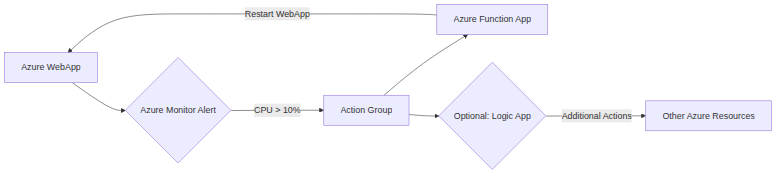
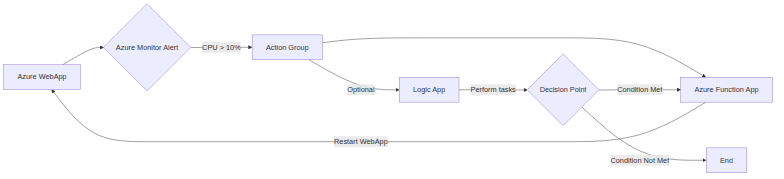
Auto-generated runbook with diagram image

diff --git a/README.md b/README.md
@@ -1,233 +1,205 @@
 ```markdown
-# Azure WebApp High CPU Alert Runbook
+# Azure Web App High CPU Alert Runbook
 
-**Document Version:** 1.0
-**Last Updated:** 2023-10-27
-**Author:** AI Generated (Edited for Quality)
+This runbook outlines the steps to diagnose and remediate a high CPU usage alert for an Azure Web App. This alert triggers when the CPU usage exceeds 10% for a sustained period. This runbook incorporates an automated remediation step using an Azure Function that restarts the Web App to quickly restore service.
 
-**Purpose:** This runbook outlines the steps for responding to and resolving an Azure WebApp high CPU usage alert.  It details the symptoms, potential causes, troubleshooting steps, automated remediation (via an Azure Function), and how to review logs.
+**Alert Name:** WebAppCPUHigh
 
-**Alert Name:** WebApp CPU Usage High
-
-**Alert Description:** CPU usage for the Azure WebApp has exceeded 10% of its maximum allowed value.
+**Trigger Condition:** CPU Percentage > 10% (Sustained)
 
 **Severity:** Medium
 
-**Escalation Point:**  On-call DevOps Engineer (pager: [PagerDuty integration here])
+**Owner:** Infrastructure/Development Team
 
 ## 1. Symptoms
 
-*   **High CPU Usage:**  Azure Monitor shows CPU Percentage exceeding 10% for the WebApp.
-*   **Slow Response Times:** Users may experience slow page load times, API request timeouts, or application unresponsiveness.
-*   **Error Logs:**  Application logs might contain error messages related to resource exhaustion, slow queries, or increased processing times.
-*   **Performance Degradation:**  Overall application performance is noticeably degraded.
-*   **Increased Queue Length:** Messages may be accumulating in associated queues (e.g., Azure Service Bus, Storage Queues) if the WebApp processes messages.
+Users may experience the following symptoms:
 
-## 2. Potential Causes
+*   Slow page load times or general application slowness.
+*   Application unresponsive or timing out.
+*   Increased latency for API calls.
+*   Error messages related to resource exhaustion (e.g., 503 Service Unavailable errors).
+*   Possible application crashes or restarts (if CPU usage gets extremely high).
+
+## 2. Troubleshooting
+
+**2.1 Initial Investigation**
+
+*   **Confirm the Alert:** Verify the alert in Azure Monitor, checking the actual CPU percentage and the duration it has been exceeding the threshold.  Check for the exact timestamp of the alert trigger and duration.
+*   **Azure Portal Overview:** Navigate to the affected Web App in the Azure Portal.
+    *   **Overview Blade:** Review the **CPU Percentage**, **Memory Percentage**, and **Requests** charts on the Overview blade.  Look for any spikes or anomalies around the time the alert triggered.
+    *   **Diagnose and Solve Problems Blade:** Use the "Diagnose and Solve Problems" tool. This can automatically detect common issues related to high CPU and suggest solutions. Check sections like "Availability and Performance".
+    *   **Metrics Blade:**
+        *   Add metrics for **CPU Percentage**, **Memory Percentage**, **Requests**, **HTTP Server Errors**, **Data Out**, and **Average Response Time**.
+        *   Increase the time range to at least 1 hour before and after the alert trigger time. This provides context for the CPU spike.
+        *   **Correlation:** Look for correlations between CPU spikes and other metrics like increased requests, memory pressure, or errors.
+*   **Application Insights (If configured):**
+    *   Review the **Performance** section for slow requests, slow dependencies, and any exceptions being thrown.
+    *   Check the **Live Metrics Stream** to get real-time CPU usage, request rates, and other telemetry.
+    *   Use **Profiler** to collect detailed traces of the CPU-intensive code paths. (Ensure profiler is enabled and configured.)
+
+**2.2 Detailed Investigation**
+
+*   **Kudu (SCM) Site:** Access the Kudu (SCM) site for the Web App using `https://<your-webapp-name>.scm.azurewebsites.net`.
+    *   **Process Explorer:** Check the Process Explorer to identify which processes are consuming the most CPU.  Look for w3wp.exe (the worker process for IIS), dotnet.exe (if it's a .NET app), node.exe (if it's a Node.js app), or any other unexpected processes. Note the process ID (PID) of the high CPU-consuming process.
+    *   **CMD/PowerShell:** Use the command line interface to investigate further.
+        *   `top`:  Use this command (available in the console) to display a real-time list of processes and their CPU usage.
+        *   `ps -aux`: (for Linux based apps) Similar to `top`, provides detailed process information.
+
+*   **Web App Diagnostics Logs:**
+    *   Enable **Application Logging (Filesystem or Blob Storage)**, **Web Server Logging (Storage)**, and **Detailed Error Messages (Filesystem or Blob Storage)** in the Web App's Diagnostic Logs section.
+    *   Review these logs for errors, exceptions, or warnings that may be contributing to the high CPU usage. Pay special attention to the timestamps around the alert trigger.
+    *   Look for patterns in the logs that correlate with the CPU spikes.
+
+**2.3 Potential Causes**
 
 *   **Code Issues:**
-    *   **Inefficient Code:**  Poorly optimized code, infinite loops, or inefficient algorithms.
-    *   **Memory Leaks:**  Gradual accumulation of memory that is not being released, leading to increased CPU usage due to garbage collection.
-    *   **Deadlocks:**  Threads or processes waiting for resources held by other threads or processes, leading to CPU spinning while waiting.
-*   **High Traffic:**  Sudden surge in user traffic exceeding the WebApp's capacity.
-*   **Database Issues:**
-    *   **Slow Queries:**  Database queries that take a long time to execute, consuming CPU resources.
-    *   **Database Connection Issues:**  Frequent connection errors or timeouts impacting application performance and CPU.
+    *   **Inefficient Algorithms:**  Code using inefficient algorithms or performing complex calculations.
+    *   **Memory Leaks:**  Code that leaks memory can lead to increased CPU usage as the garbage collector works harder.
+    *   **Deadlocks or Threading Issues:**  Concurrency problems can cause CPU spikes.
+    *   **Long-Running Synchronous Operations:**  Blocking I/O operations can tie up threads and increase CPU usage.
 *   **External Dependencies:**
-    *   **Slow Downstream Services:**  Dependence on slow or unresponsive external services (e.g., APIs, databases).
-    *   **Network Issues:** Network latency or connectivity problems affecting communication with external resources.
-*   **Background Tasks:**
-    *   **Scheduled Jobs:**  CPU-intensive scheduled tasks running on the WebApp.
-    *   **WebJobs:** Continuously running or triggered WebJobs consuming CPU.
-*   **Security Issues:**
-    *   **Malicious Attacks:**  DoS or DDoS attacks overwhelming the WebApp's resources.
-    *   **Compromised Code:**  Malicious code injected into the application.
-*   **Resource Constraints:**
-    *   **Insufficient App Service Plan:**  WebApp is operating in an App Service Plan with insufficient CPU resources.
-    *   **Scaling Issues:** Autoscaling is not configured correctly or is failing to scale effectively.
+    *   **Slow Database Queries:**  Slow database queries can put a strain on the application and increase CPU usage.
+    *   **Network Latency:**  High network latency to external services can cause delays and increase CPU usage.
+    *   **API Throttling:**  Being throttled by external APIs can lead to retries and increased CPU load.
+*   **Traffic Spikes:**  A sudden increase in traffic can overwhelm the application and cause CPU spikes.
+*   **Denial of Service (DoS) Attacks:**  A DoS attack can flood the application with requests, leading to high CPU usage.
+*   **Configuration Issues:**
+    *   **Incorrect Connection String:**  An invalid connection string can cause the application to repeatedly try to connect to the database, increasing CPU usage.
+    *   **Excessive Logging:**  Overly verbose logging can consume significant CPU resources.
+*   **Platform Issues:**
+    *   **Outdated SDKs/Frameworks:**  Using outdated SDKs or frameworks can expose the application to performance issues.
+    *   **Under-Provisioned App Service Plan:** The chosen service plan does not provide enough resources for the application's workload.
 
-## 3. Troubleshooting Steps
+## 3. Auto-Remediation
 
-**A. Initial Investigation (5-10 minutes):**
+The following auto-remediation action will be triggered by the alert:
 
-1.  **Verify the Alert:** Confirm the alert is active in Azure Monitor and review the alert details, including the specific metric (CPU Percentage) and the time the alert was triggered.
-2.  **Check Azure Status:**  Visit [https://status.azure.com/](https://status.azure.com/) to check for any known Azure outages or incidents that might be affecting the WebApp's region.
-3.  **Review Azure Monitor Metrics:**
-    *   **CPU Percentage:** Analyze the CPU Percentage graph in Azure Monitor for the WebApp to confirm the sustained high CPU usage.
-    *   **Memory Percentage:** Check memory usage to identify potential memory leaks or excessive memory consumption.
-    *   **Requests:** Analyze the number of requests per second to see if there is a sudden spike in traffic.
-    *   **HTTP Queue Length:** Observe the HTTP Queue Length to determine if requests are being queued up due to high CPU.
-    *   **Data In/Out:** High network data in or out may also point to network issues or unexpected traffic volumes.
-4.  **Check Application Logs:**  Examine the WebApp's application logs in Azure App Service Logs (Application Insights if configured, or standard App Service logs) for any error messages, exceptions, or warnings that coincide with the high CPU usage. Look for clues about slow queries, timeouts, or resource exhaustion.
+*   **Action:** Restart the Web App.
+*   **Mechanism:** Azure Function triggered by the Azure Monitor Alert.
+*   **Azure Function Details:**
 
-**B. Detailed Analysis (15-30 minutes):**
+    *   **Function App Name:** `[YourFunctionAppName]`
+    *   **Function Name:** `RestartWebApp`
+    *   **Trigger:** HTTP Trigger (WebHook from Azure Monitor Alert)
+    *   **Required Permissions:** The Function App's Managed Identity (System Assigned) or a Service Principal needs the `Microsoft.Web/sites/restart/action` permission on the targeted Web App.
 
-1.  **Investigate Slow Requests (Application Insights):** If Application Insights is configured:
-    *   Navigate to the "Performance" section of your Application Insights resource associated with the WebApp.
-    *   Identify the slowest requests based on response time.
-    *   Drill down into individual request traces to analyze the call stack and identify the specific code sections or database queries that are consuming the most time.
-2.  **Azure App Service Diagnostics:**
-    *   Navigate to your WebApp in the Azure portal.
-    *   In the left-hand menu, click on "Diagnose and solve problems."
-    *   Use the built-in diagnostics tools (e.g., "Performance Issues," "Availability and Performance") to identify potential problems, such as slow requests, high CPU, or memory leaks.
-    *   The "Diagnostic Tools" section allows for deeper analysis, including:
-        *   **Process Explorer:** View running processes on the WebApp instance and their CPU and memory consumption.  Identify which processes are contributing the most to the high CPU usage.
-        *   **Memory Dump Analysis:** Capture a memory dump of the WebApp process and analyze it to identify memory leaks or excessive memory consumption. (Requires deeper technical expertise)
-        *   **Proactive CPU Monitoring:** Configure Proactive CPU Monitoring to automatically collect data when CPU spikes occur, providing valuable insights for root cause analysis.
-3.  **Database Monitoring (If Applicable):**
-    *   Check the performance metrics of the associated database (e.g., Azure SQL Database, Cosmos DB) for slow queries, high CPU utilization, or other performance bottlenecks.
-    *   Use database monitoring tools to identify long-running queries and optimize them.
-4.  **Check WebJobs:**  If using WebJobs, review their logs and resource consumption to ensure they are not contributing to the high CPU usage.
-5.  **Check Scaling Settings:** Review the App Service Plan scaling rules and ensure that autoscale is enabled and configured correctly to handle traffic spikes. Are the scale-out triggers appropriate (e.g., CPU Threshold)? Are the scale-out limits sufficient?
+    **Example Azure Function (C# - .NET 6):**
 
-## 4. Auto-Remediation (Azure Function Restart)
+    ```csharp
+    using System;
+    using System.IO;
+    using System.Threading.Tasks;
+    using Microsoft.AspNetCore.Mvc;
+    using Microsoft.Azure.WebJobs;
+    using Microsoft.Azure.WebJobs.Extensions.Http;
+    using Microsoft.AspNetCore.Http;
+    using Microsoft.Extensions.Logging;
+    using Newtonsoft.Json;
+    using Azure.Identity;
+    using Azure.ResourceManager;
+    using Azure.ResourceManager.AppService;
+    using Azure.ResourceManager.AppService.Models;
 
-**A. Azure Function Details:**
+    public static class RestartWebApp
+    {
+        [FunctionName("RestartWebApp")]
+        public static async Task<IActionResult> Run(
+            [HttpTrigger(AuthorizationLevel.Function, "post", Route = null)] HttpRequest req,
+            ILogger log)
+        {
+            log.LogInformation("RestartWebApp function triggered.");
 
-*   **Function Name:**  `WebAppRestartFunction` (example)
-*   **Resource Group:**  `rg-monitoring` (example)
-*   **App Service Plan (for the Function):** `ASP-Monitoring` (example - ideally on a separate App Service Plan)
-*   **Trigger:** HTTP Trigger (or Queue Trigger triggered by the Azure Monitor Alert Action Group)
-*   **Authentication:**  Managed Identity (System-assigned or User-assigned) with `Web App Contributor` role assigned to the WebApp.
-*   **Code Example (PowerShell):**
+            string requestBody = await new StreamReader(req.Body).ReadToEndAsync();
+            dynamic data = JsonConvert.DeserializeObject(requestBody);
 
-```powershell
-param($Request, $TriggerMetadata)
+            // Extract necessary information from the Azure Monitor Alert payload
+            string webAppName = data?.data?.context?.resourceName;
+            string resourceGroupName = data?.data?.context?.resourceGroupName;
+            string subscriptionId = data?.data?.context?.subscriptionId;
 
-# Replace with your WebApp name and Resource Group
-$WebAppName = "your-webapp-name"
-$ResourceGroupName = "your-resource-group-name"
+            log.LogInformation($"Web App Name: {webAppName}");
+            log.LogInformation($"Resource Group Name: {resourceGroupName}");
+            log.LogInformation($"Subscription ID: {subscriptionId}");
 
-# Get the WebApp using the AzureRM module
-try {
-    Connect-AzAccount -Identity
-    Write-Host "Successfully connected to Azure with Managed Identity."
-}
-catch {
-    Write-Host "Failed to connect to Azure with Managed Identity: $($_.Exception)"
-    # Consider logging more details here for troubleshooting
-    exit 1 # Exit with an error code
-}
+            if (string.IsNullOrEmpty(webAppName) || string.IsNullOrEmpty(resourceGroupName) || string.IsNullOrEmpty(subscriptionId))
+            {
+                log.LogError("Missing required information from the alert payload.");
+                return new BadRequestObjectResult("Missing required information from the alert payload.");
+            }
 
+            try
+            {
+                // Authenticate to Azure using Managed Identity or Service Principal
+                var credential = new DefaultAzureCredential();
+                var armClient = new ArmClient(credential, subscriptionId);
 
-try {
-    # Restart the Web App
-    Write-Host "Restarting WebApp: $WebAppName in Resource Group: $ResourceGroupName"
-    Restart-AzWebApp -Name $WebAppName -ResourceGroupName $ResourceGroupName -Force
+                // Get the resource group
+                var resourceGroupResource = armClient.GetResourceGroupResource(Azure.Core.ResourceIdentifier.Create(subscriptionId, resourceGroupName));
+                var webAppCollection = resourceGroupResource.GetWebApps();
+                var webAppResource = await webAppCollection.GetAsync(webAppName);
 
-    Write-Host "WebApp restart initiated successfully."
+                //Restart the webapp
+                await webAppResource.Value.RestartAsync();
 
-    # Optional: Return a success message to the caller.
-    $body = @{ message = "WebApp restart initiated successfully for $WebAppName in $ResourceGroupName" } | ConvertTo-Json
-    return [HttpResponseContext]@{
-        StatusCode = 200
-        Body = $body
-        Headers = @{"Content-Type" = "application/json"}
+                log.LogInformation($"Successfully restarted Web App: {webAppName}");
+                return new OkObjectResult($"Successfully restarted Web App: {webAppName}");
+
+            }
+            catch (Exception ex)
+            {
+                log.LogError($"Error restarting Web App: {webAppName}. Error: {ex.Message}");
+                return new StatusCodeResult(500); //InternalServerError
+            }
+        }
     }
-}
-catch {
-    Write-Host "Error restarting WebApp: $($_.Exception)"
-    # Consider logging more details here for troubleshooting
-    $body = @{ message = "Error restarting WebApp: $($_.Exception.Message)" } | ConvertTo-Json
-    return [HttpResponseContext]@{
-        StatusCode = 500
-        Body = $body
-        Headers = @{"Content-Type" = "application/json"}
-    }
-    exit 1 # Exit with an error code
-}
+    ```
 
-```
+    **Configuration:**
 
-**B. Azure Monitor Alert Action Group Configuration:**
+    *   **Function App Settings:**
+        *   Ensure the `FUNCTIONS_EXTENSION_VERSION` app setting is set to `~4` or higher (depending on your .NET version).
+        *   Configure the Managed Identity or Service Principal with the appropriate role assignment (Contributor or custom role).
+    *   **Azure Monitor Alert Action Group:**  Configure the Action Group to call the HTTP Trigger URL of the Azure Function.
 
-1.  In the Azure portal, navigate to the Azure Monitor service.
-2.  Select "Alerts" and then "Action groups."
-3.  Create a new action group (or modify an existing one).
-4.  Add an action with the following settings:
-    *   **Action Type:**  "Azure Function"
-    *   **Function App:** Select the `WebAppRestartFunction` you created.
-    *   **HTTP Trigger:**  Select the appropriate HTTP Trigger.
-    *   **Use common alert schema:** Enabled
+**3.1 Post Auto-Remediation Verification**
 
-**C.  How it Works:**
+*   **Check Web App Status:**  Verify that the Web App has been restarted successfully in the Azure Portal.
+*   **Monitor CPU Usage:**  Monitor the CPU percentage of the Web App for the next 30 minutes to ensure it has returned to a normal level.
+*   **Check Application Health:**  Confirm that the application is responding to requests and that users are no longer experiencing issues.
+*   **Review Function Logs:** Review the Azure Function logs to ensure the restart was successful and to identify any errors that may have occurred during the process.
+*   **Escalate if Necessary:**  If the CPU usage remains high or the issue persists, escalate to the development team for further investigation.
 
-1.  The Azure Monitor alert triggers when the CPU usage exceeds the defined threshold (10%).
-2.  The alert triggers the Action Group.
-3.  The Action Group calls the `WebAppRestartFunction` via its HTTP Trigger endpoint.
-4.  The `WebAppRestartFunction`, authenticating with its Managed Identity, uses the Azure Resource Manager (ARM) APIs to restart the WebApp.
-5.  The WebApp restarts, clearing its current state and hopefully resolving the high CPU issue.
+## 4. Logs
 
-**D.  Important Considerations:**
+*   **Azure Activity Log:**  Review the Azure Activity Log for any events related to the Web App, such as restarts, deployments, or configuration changes.
+*   **Web App Diagnostic Logs:** Analyze the Application Logs, Web Server Logs, and Detailed Error Messages as described in the Troubleshooting section.
+*   **Kudu (SCM) Site Logs:**  Check the Kudu site's `LogFiles` directory for any logs generated by the application or the Web App environment.
+*   **Azure Function Logs:**  Review the Azure Function logs to see if the restart was successful and if there were any errors.  Access logs through the Azure Portal's Function App section, or configure Application Insights for deeper analysis.
+*   **Application Insights (If configured):** Review Application Insights for performance metrics, exceptions, and traces.
 
-*   **Managed Identity:** Using a Managed Identity is crucial for secure authentication to the Azure Resource Manager.  Avoid storing credentials directly in the function code.
-*   **Idempotency:** While a simple restart is typically idempotent, consider more robust error handling within the Azure Function.  For example, you could check the WebApp's status *after* attempting the restart to confirm it was successful.
-*   **Monitoring Function Executions:**  Monitor the execution of the Azure Function in Azure Monitor to ensure it is running correctly and without errors.
-*   **Cooldown Period:** Consider implementing a cooldown period in the Azure Monitor alert to prevent excessive restarts if the high CPU issue persists. For example, set the "Evaluate based on" setting to a longer period (e.g., 15 minutes) and the "Frequency of evaluation" to a shorter period (e.g., 5 minutes) to avoid triggering the alert and restart too frequently.
-*   **Alternative Triggers:** You can use a Queue Trigger instead of an HTTP trigger. The Alert Action group will then enqueue a message on to a dedicated queue which will in turn trigger the Azure Function. This helps decouple the alert from the function execution.
+## 5. Escalation
 
-## 5. Post-Remediation Steps
+If the auto-remediation fails or the issue persists after the Web App has been restarted, escalate to the development team and/or infrastructure team with the following information:
 
-1.  **Monitor CPU Usage:** After the restart, closely monitor the WebApp's CPU usage to ensure that it has returned to normal levels.  If the high CPU usage persists, the automated remediation may not be sufficient, and further investigation is required.
-2.  **Analyze Logs:**  Review application logs, Azure Monitor metrics, and other diagnostic data to identify the root cause of the high CPU usage.  This is crucial to prevent recurrence of the issue.
-3.  **Address Root Cause:**  Based on the root cause analysis, take appropriate actions, such as:
-    *   **Optimize Code:**  Refactor inefficient code, fix memory leaks, and optimize database queries.
-    *   **Scale Up App Service Plan:**  Upgrade the App Service Plan to a higher tier with more CPU resources.
-    *   **Scale Out WebApp Instances:**  Increase the number of WebApp instances to handle the load.
-    *   **Implement Caching:**  Implement caching mechanisms to reduce the load on the WebApp and database.
-    *   **Throttle Requests:** Implement request throttling to prevent traffic spikes from overwhelming the WebApp.
-    *   **Update Dependencies:** Update outdated libraries and dependencies.
-4.  **Document Findings:**  Document the root cause analysis, remediation steps taken, and any recommendations for future prevention.
-5.  **Update Runbook (If Needed):** Based on your experiences, update this runbook to improve its effectiveness and accuracy.
+*   **Alert Details:**  Include the alert name, trigger time, and CPU percentage.
+*   **Troubleshooting Steps:**  Describe the troubleshooting steps that have been taken and the findings.
+*   **Logs:**  Provide relevant logs from the Web App, Kudu site, and Azure Function.
+*   **Potential Causes:**  Share any potential causes that have been identified.
 
-## 6. Logs
+## 6. Prevention
 
-**A. Azure App Service Logs:**
+*   **Code Optimization:** Regularly review and optimize application code to identify and address any performance bottlenecks.
+*   **Performance Testing:** Conduct regular performance testing to identify and address performance issues before they impact users.
+*   **Monitoring and Alerting:**  Fine-tune monitoring and alerting rules to ensure that issues are detected and addressed promptly. Consider lower threshold alerts for CPU and memory to proactively identify issues before they become critical.
+*   **Auto-Scaling:**  Configure auto-scaling for the App Service Plan to automatically increase resources during periods of high demand.
+*   **Regular Updates:**  Keep the application and its dependencies up to date with the latest security patches and performance improvements.
+*   **Resource Allocation:** Ensure the App Service Plan and Web App are adequately provisioned for the expected workload.  Monitor resource usage and adjust as needed.
+*   **Database Optimization:** Regularly review and optimize database queries to improve performance. Ensure proper indexing.
+*   **Content Delivery Network (CDN):** Use a CDN to cache static content and reduce the load on the Web App.
+*   **Connection Pooling:** Implement connection pooling to reduce the overhead of establishing new connections to external resources.
 
-*   **Location:** Azure portal -> Your WebApp -> App Service Logs
-*   **Types:**
-    *   **Application Logs:**  Logs generated by the application code.  (Important for identifying code issues, exceptions, and slow operations.)
-    *   **Web Server Logs:** Logs generated by the web server (IIS or Kestrel). (Useful for diagnosing HTTP errors, access patterns, and security issues.)
-    *   **Detailed Error Messages:** Detailed error messages from the web server.
-    *   **Failed Request Tracing:** Detailed tracing information for failed requests.
-*   **Configuration:**  Enable logging and configure the desired log levels in the WebApp's configuration settings.
-
-**B. Application Insights (If Configured):**
-
-*   **Location:** Azure portal -> Your Application Insights resource.
-*   **Data:**
-    *   **Requests:**  Detailed information about incoming requests, including response times, dependencies, and exceptions.
-    *   **Exceptions:**  Logged exceptions and errors.
-    *   **Performance:**  Performance metrics, including CPU usage, memory usage, and request durations.
-    *   **Availability:**  Availability tests to monitor the uptime and responsiveness of the WebApp.
-    *   **Custom Events and Metrics:**  Custom events and metrics that you can log from your application code.
-*   **Querying:** Use Kusto Query Language (KQL) to query the data in Application Insights and identify patterns and anomalies.
-
-**C. Azure Function Logs:**
-
-*   **Location:** Azure portal -> Your Function App -> Function -> Monitor
-*   **Data:** Logs generated by the Azure Function during execution.  (Essential for troubleshooting issues with the auto-remediation process.)
-*   **Application Insights:** Integrate the Azure Function with Application Insights for more detailed monitoring and logging.
-
-**D. Database Logs (If Applicable):**
-
-*   **Azure SQL Database:** Use Azure SQL Database auditing and diagnostics to monitor database performance, identify slow queries, and troubleshoot database-related issues.
-*   **Cosmos DB:** Use Cosmos DB monitoring and diagnostics to monitor database performance, identify slow queries, and troubleshoot database-related issues.
-
-## 7. Known Issues and Workarounds
-
-*   **Restart Fails:** The Azure Function might fail to restart the WebApp due to various reasons (e.g., network issues, permissions problems). Monitor the Function's execution logs and investigate any errors.  Ensure the Managed Identity has the necessary permissions.
-*   **High CPU Persists:** The restart might only provide temporary relief, and the high CPU usage might return shortly afterward. This indicates that the root cause has not been addressed, and further investigation is required.
-*   **Autoscale Issues:** If autoscale is not working correctly, the WebApp might not scale out quickly enough to handle traffic spikes. Review the autoscale settings and ensure that the scale-out rules are appropriate.
-
-## 8.  Security Considerations
-
-*   **Managed Identities:**  Always use Managed Identities for authentication to Azure resources. Avoid storing credentials directly in code or configuration files.
-*   **Principle of Least Privilege:**  Grant the Managed Identity only the necessary permissions to perform its tasks (e.g., `Web App Contributor` role on the specific WebApp).
-*   **Input Validation:**  Sanitize and validate all inputs to the Azure Function to prevent injection attacks.
-*   **Secure Communication:**  Use HTTPS for all communication with the Azure Function and other Azure resources.
-
-This runbook provides a comprehensive guide for responding to and resolving high CPU usage alerts for Azure WebApps.  Remember to customize the runbook with your specific application details and update it regularly based on your experiences and evolving needs.
+This runbook will be updated periodically based on lessons learned from past incidents.
 ```
 
 ## Architecture Diagram
